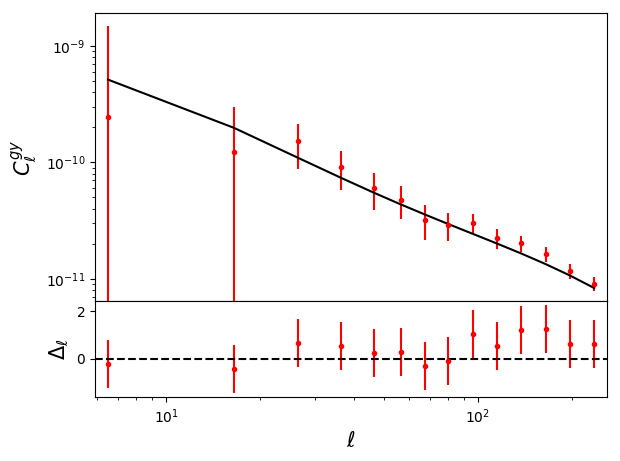
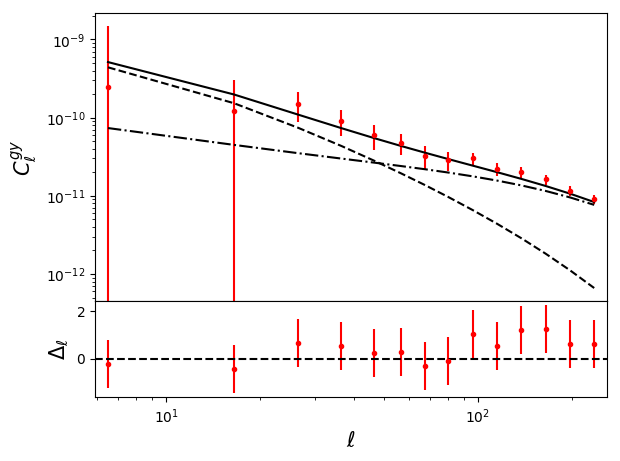
updated notes, added 1h-2h split when plotting

diff --git a/likelihood/like.py b/likelihood/like.py
@@ -151,7 +151,8 @@ class Likelihood(object):
 
         return -2 * pr
 
-    def plot_data(self, par, dvec, save_figures=False, prefix=None):
+    def plot_data(self, par, dvec, save_figures=False, prefix=None,
+                  get_theory_1h=None, get_theory_2h=None):
         """
         Produces a plot of the different data power spectra with
         error bars and the theory prediction corresponding to a set
@@ -168,6 +169,10 @@ class Likelihood(object):
                 where tracer1 and tracer2 are the names of the two
                 tracers contributing to a given power spectrum.
             prefix (str): output prefix.
+            get_theory_1h (function): function returning the 1-halo
+                contribution.
+            get_theory_2h (function): function returning the 2-halo
+                contribution.
 
         Returns:
             array of figure objects.
@@ -184,6 +189,15 @@ class Likelihood(object):
         # Compute theory prediction and reshape to
         # [n_correlations,n_ells]
         tv = self.get_theory(params)[indices]
+        # Compute 1-h and 2-h if needed:
+        if get_theory_1h is not None:
+            tv1h = get_theory_1h(params)[indices]
+        else:
+            tv1h = None
+        if get_theory_2h is not None:
+            tv2h = get_theory_2h(params)[indices]
+        else:
+            tv2h = None
         # Reshape data vector
         dv = self.dv[indices]
         # Compute error bars and reshape
@@ -195,8 +209,8 @@ class Likelihood(object):
         # Loop through each correlation and produce a figure
         figs = []
         ax = []
-        for ll, tt, dd, ee, tr in zip(ls, tv, dv, ev,
-                                      dvec.tracers):
+        for ic, (ll, tt, dd, ee, tr) in enumerate(zip(ls, tv, dv, ev,
+                                                      dvec.tracers)):
             typ_str = ''
             for t in tr:
                 typ_str += t.type
@@ -213,6 +227,10 @@ class Likelihood(object):
             ax1.set_xscale('log')
             ax1.set_yscale('log')
             ax1.set_xlim([ll[0]/1.1, ll[-1]*1.1])
+            if tv1h is not None:
+                ax1.plot(ll, tv1h[ic], 'k-.')
+            if tv2h is not None:
+                ax1.plot(ll, tv2h[ic], 'k--')
             ax2 = fig.add_axes((.1, .1, .8, .2))
             ax2.set_xlim([ll[0]/1.1, ll[-1]*1.1])
             # Normalized residuals

diff --git a/notes/notes.tex b/notes/notes.tex
@@ -104,8 +104,8 @@ The halo model prediction for the cross-power spectrum $P_{UV}$ then consists of
 \end{equation}
 Each of these can be estimated in terms of the Fourier-space profiles as:
 \begin{align}
-  &P^{1h}_{UV}(k)=\int dM\,\frac{dn}{dM}\,U(k|M)\,V(k|M)\\
-  &P^{2h}_{UV}(k)=P_L(k)\,\left[\int dM\frac{dn}{dM}\,b_h(M)\,U(k|M)\right]\,\left[\int dM\frac{dn}{dM}\,b_h(M)\,V(k|M)\right].
+  &P^{1h}_{UV}(k)=\int dM\,\frac{dn}{dM}\,\langle U(k|M)\,V(k|M)\rangle\\
+  &P^{2h}_{UV}(k)=P_L(k)\,\left[\int dM\frac{dn}{dM}\,b_h(M)\,\langle U(k|M)\rangle\right]\,\left[\int dM\frac{dn}{dM}\,b_h(M)\,\langle V(k|M)\rangle\right].
 \end{align}
 Here, $P_L(k)$ is the linear matter power spectrum, $dn/dM$ is the halo mass function and $b_h(M)$ is the halo bias.
 
@@ -173,6 +173,14 @@ We will use prescriptions for the halo profiles from the following references:
 
   Finally, for simplicity we will assume that the satellites follow the matter distribution: $u_s(k|M)=u_m(k|M)$.
 
+\item 1-halo covariance: note that different halo properties are not perfectly correlated due to e.g. hidden variables (age, merger history, environment etc.). I.e. in almost all cases
+  \begin{equation}
+    \langle U(k|M) V(k|M)\rangle\neq\langle U(k|M)\rangle\langle V(k|M)\rangle.
+  \end{equation}
+  In the particular case of the cross-correlation between tSZ flux and galaxy overdensity, we will model the scatter between both quantities by introducing one additional parameter $\rho_{yg}$:
+  \begin{equation}
+    \langle u_g(k) u_y(k)\rangle = (1+\rho_{yg})\langle u_g(k)\rangle \langle u_y(k)\rangle.
+  \end{equation}
 \end{itemize}
 We will start by implementing these as defined in the papers, and then decide which parameters of them to free up (an obvious one is $1-b$, but we may want to be more general than that).
 

diff --git a/plot_stuff.py b/plot_stuff.py
@@ -36,6 +36,18 @@ for v in p.get('data_vectors'):
                           hm_correction=hm_correction,
                           **pars)
 
+    def th1h(pars):
+        return get_theory(p, d, cosmo, return_separated=False,
+                          hm_correction=hm_correction,
+                          include_2h=False, include_1h=True,
+                          **pars)
+
+    def th2h(pars):
+        return get_theory(p, d, cosmo, return_separated=False,
+                          hm_correction=hm_correction,
+                          include_2h=True, include_1h=False,
+                          **pars)
+
     # Set up likelihood
     lik = Likelihood(p.get('params'), d.data_vector, d.covar, th,
                      debug=p.get('mcmc')['debug'])
@@ -51,7 +63,8 @@ for v in p.get('data_vectors'):
 
     # Plot power spectra
     figs_cl = lik.plot_data(sam.p0, d, save_figures=True,
-                            prefix=p.get_sampler_prefix(v['name']))
+                            prefix=p.get_sampler_prefix(v['name']),
+                            get_theory_1h=th1h, get_theory_2h=th2h)
 
     # Plot likelihood
     figs_ch = lik.plot_chain(sam.chain, save_figure=True,

diff --git a/model/theory.py b/model/theory.py
@@ -3,6 +3,7 @@ from .power_spectrum import hm_ang_power_spectrum
 
 
 def get_theory(p, dm, cosmo, return_separated=False,
+               include_1h=True, include_2h=True,
                hm_correction=None, **kwargs):
     """Computes the theory prediction used in the MCMC.
 
@@ -50,6 +51,8 @@ def get_theory(p, dm, cosmo, return_separated=False,
         cl = hm_ang_power_spectrum(cosmo, ls, profiles,
                                    zrange=zrange, zpoints=zpoints,
                                    zlog=use_zlog, hm_correction=hm_correction,
+                                   include_1h=include_1h,
+                                   include_2h=include_2h,
                                    **kwargs)
         if cl is None:
             return None
